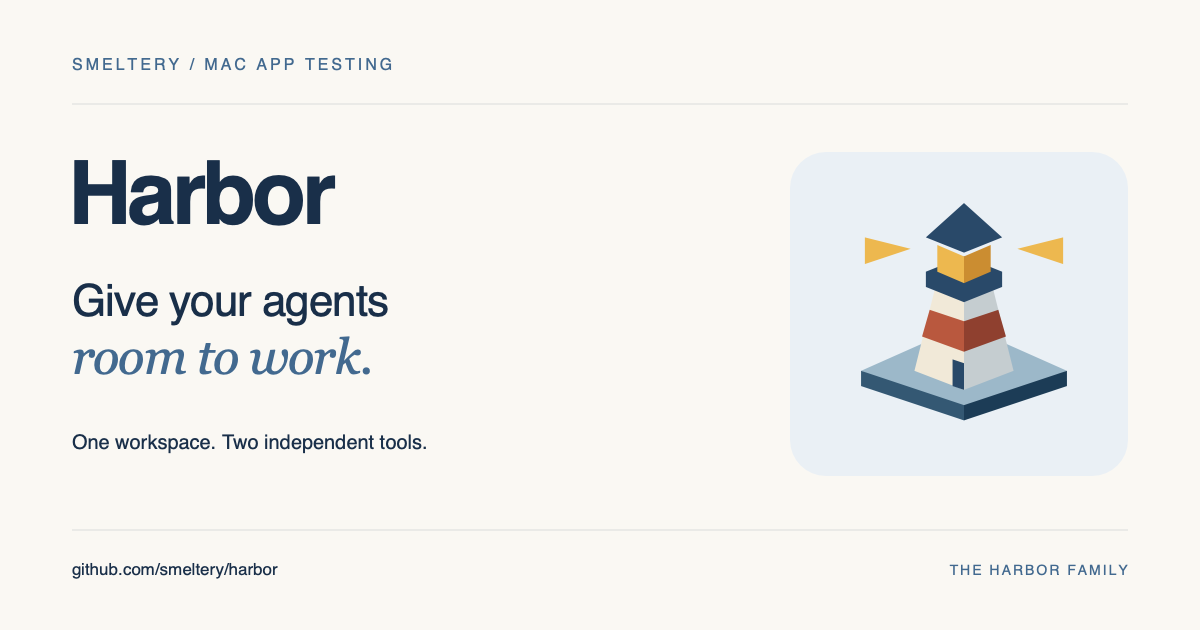
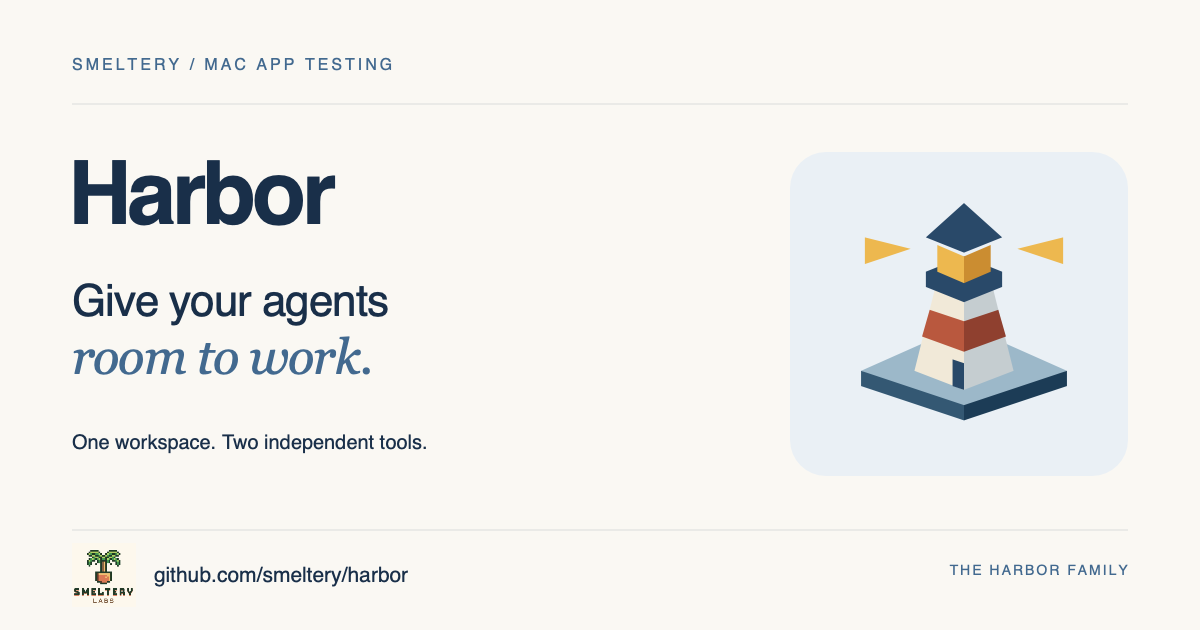
design: add Smeltery branding to social card footers

Changed region(s): [[0.0617, 0.8746, 0.3392, 0.9651]]

diff --git a/assets/brands/README.md b/assets/brands/README.md
@@ -6,3 +6,4 @@ Third-party marks identify the tools used by this project.
 - Bun: [official logo](https://bun.sh/logo.svg).
 - Flox: [official favicon](https://flox.dev/favicon.svg).
 - Git: [Simple Icons](https://simpleicons.org/), CC0.
+- Smeltery Labs: shared organization mark from `smeltery/trellis/fork/branding/smeltery.png`.
